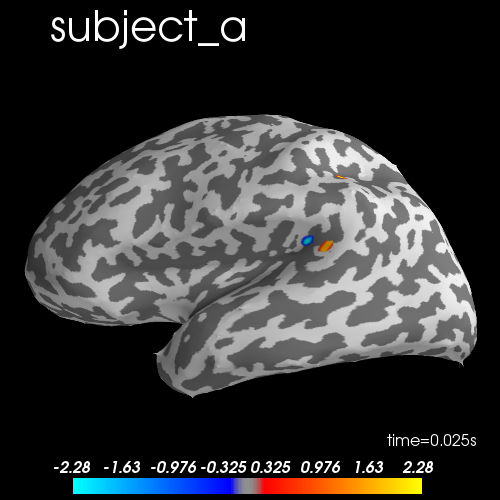
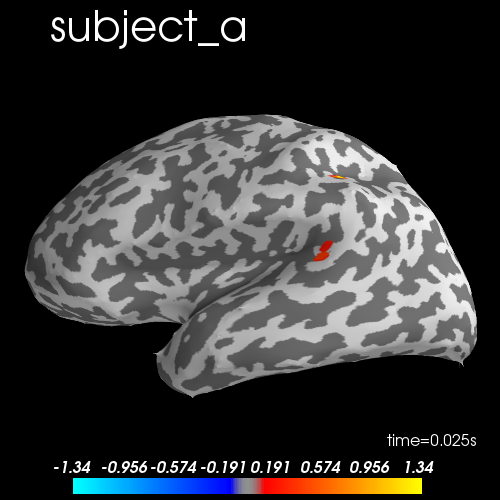
rebuilt docs

diff --git a/auto_examples/plot_group_lasso.html b/auto_examples/plot_group_lasso.html
@@ -403,7 +403,7 @@ Computing data rank from covariance with rank=None
 <h2>Solve the inverse problems<a class="headerlink" href="#solve-the-inverse-problems" title="Permalink to this headline">¶</a></h2>
 <div class="highlight-default notranslate"><div class="highlight"><pre><span></span><span class="n">stcs</span><span class="p">,</span> <span class="n">log</span> <span class="o">=</span> <a href="../generated/groupmne.compute_group_inverse.html#groupmne.compute_group_inverse" title="View documentation for groupmne.inverse.compute_group_inverse"><span class="n">compute_group_inverse</span></a><span class="p">(</span><span class="n">gains</span><span class="p">,</span> <span class="n">M</span><span class="p">,</span> <span class="n">group_info</span><span class="p">,</span>
                                   <span class="n">method</span><span class="o">=</span><span class="s2">&quot;grouplasso&quot;</span><span class="p">,</span>
-                                  <span class="n">depth</span><span class="o">=</span><span class="mf">0.9</span><span class="p">,</span> <span class="n">alpha</span><span class="o">=</span><span class="mf">0.3</span><span class="p">,</span> <span class="n">return_stc</span><span class="o">=</span><span class="kc">True</span><span class="p">,</span>
+                                  <span class="n">depth</span><span class="o">=</span><span class="mf">0.9</span><span class="p">,</span> <span class="n">alpha</span><span class="o">=</span><span class="mf">0.5</span><span class="p">,</span> <span class="n">return_stc</span><span class="o">=</span><span class="kc">True</span><span class="p">,</span>
                                   <span class="n">n_jobs</span><span class="o">=</span><span class="mi">4</span><span class="p">)</span>
 
 <span class="n">t</span> <span class="o">=</span> <span class="mf">0.025</span>
@@ -426,7 +426,7 @@ Computing data rank from covariance with rank=None
 <li><img alt="../_images/sphx_glr_plot_group_lasso_003.png" class="sphx-glr-multi-img" src="../_images/sphx_glr_plot_group_lasso_003.png" />
 </li>
 </ul>
-<p class="sphx-glr-timing"><strong>Total running time of the script:</strong> ( 2 minutes  8.331 seconds)</p>
+<p class="sphx-glr-timing"><strong>Total running time of the script:</strong> ( 2 minutes  5.726 seconds)</p>
 <div class="sphx-glr-footer class sphx-glr-footer-example docutils container" id="sphx-glr-download-auto-examples-plot-group-lasso-py">
 <div class="sphx-glr-download docutils container">
 <p><a class="reference download internal" download="" href="../_downloads/e66cf913a6355c593439c84a85c97b44/plot_group_lasso.py"><code class="xref download docutils literal notranslate"><span class="pre">Download</span> <span class="pre">Python</span> <span class="pre">source</span> <span class="pre">code:</span> <span class="pre">plot_group_lasso.py</span></code></a></p>

diff --git a/auto_examples/sg_execution_times.html b/auto_examples/sg_execution_times.html
@@ -113,9 +113,9 @@
       
   <div class="section" id="computation-times">
 <span id="sphx-glr-auto-examples-sg-execution-times"></span><h1>Computation times<a class="headerlink" href="#computation-times" title="Permalink to this headline">¶</a></h1>
-<p><strong>02:08.331</strong> total execution time for <strong>auto_examples</strong> files:</p>
+<p><strong>02:05.726</strong> total execution time for <strong>auto_examples</strong> files:</p>
 <ul class="simple">
-<li><p><strong>02:08.331</strong>: <a class="reference internal" href="plot_group_lasso.html#sphx-glr-auto-examples-plot-group-lasso-py"><span class="std std-ref">Multi-subject joint source localization with multi-task models</span></a> (<code class="docutils literal notranslate"><span class="pre">plot_group_lasso.py</span></code>)</p></li>
+<li><p><strong>02:05.726</strong>: <a class="reference internal" href="plot_group_lasso.html#sphx-glr-auto-examples-plot-group-lasso-py"><span class="std std-ref">Multi-subject joint source localization with multi-task models</span></a> (<code class="docutils literal notranslate"><span class="pre">plot_group_lasso.py</span></code>)</p></li>
 </ul>
 </div>
 

diff --git a/_downloads/e66cf913a6355c593439c84a85c97b44/plot_group_lasso.py b/_downloads/e66cf913a6355c593439c84a85c97b44/plot_group_lasso.py
@@ -125,7 +125,7 @@ print("(# subjects, # channels, # time points) = ", M.shape)
 #
 stcs, log = compute_group_inverse(gains, M, group_info,
                                   method="grouplasso",
-                                  depth=0.9, alpha=0.3, return_stc=True,
+                                  depth=0.9, alpha=0.5, return_stc=True,
                                   n_jobs=4)
 
 t = 0.025
